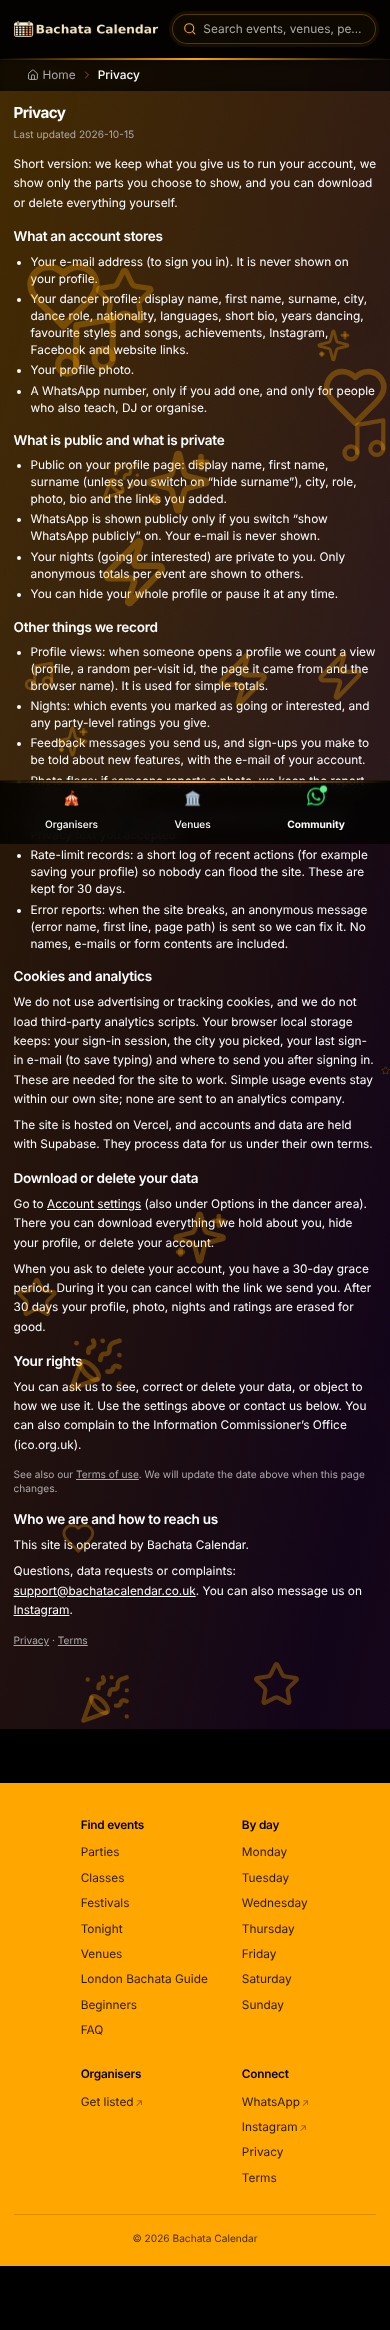
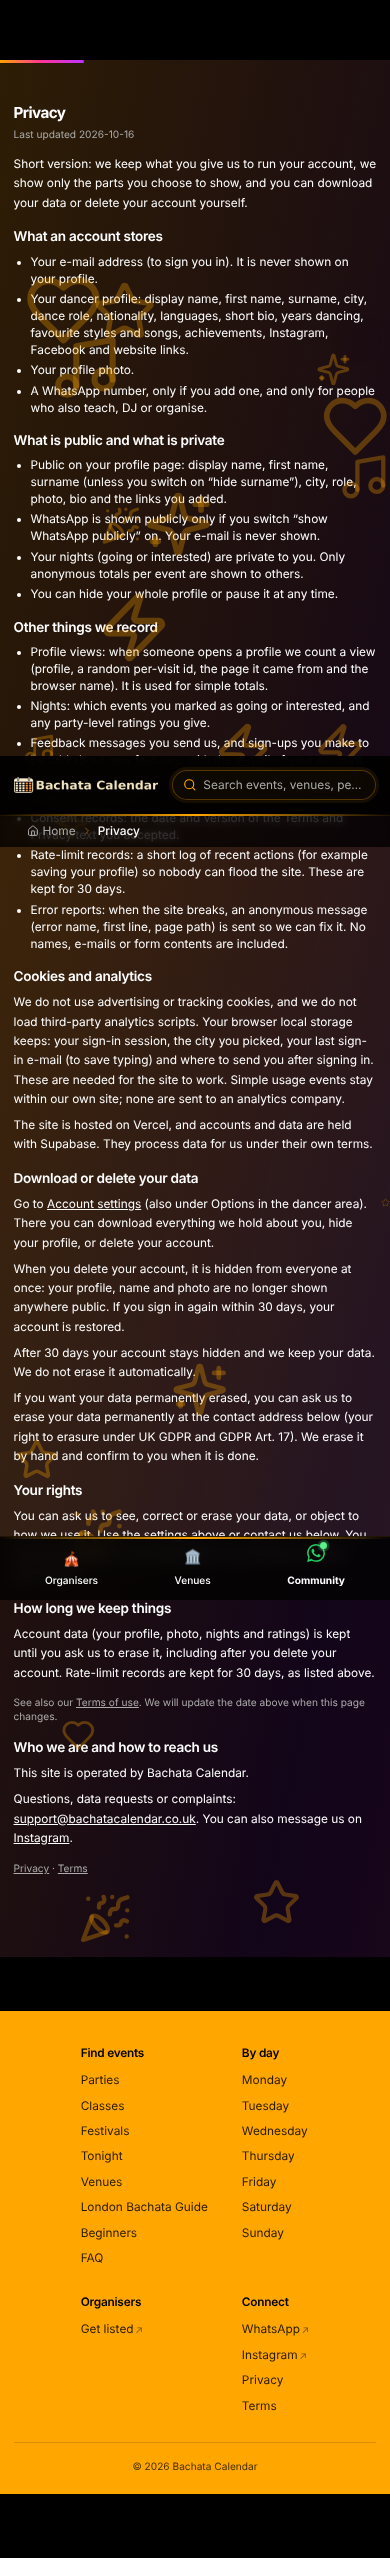
fix(site): /privacy and /terms deletion wording matches owner decision (hidden, 30-day restore, erase on request) [worker-done dt_fc738c34eb48]
Claude-Session: https://claude.ai/code/session_01MZ6coQThpe3bCxzAcJhY7g

diff --git a/src/pages/Privacy.tsx b/src/pages/Privacy.tsx
@@ -14,7 +14,7 @@ const Privacy = () => {
     <LegalShell routeId="privacy" title="Privacy" updated={PRIVACY_VERSION}>
       <p>
         Short version: we keep what you give us to run your account, we show only the parts you choose to show, and you
-        can download or delete everything yourself.
+        can download your data or delete your account yourself.
       </p>
 
       <Section title="What an account stores">
@@ -84,15 +84,29 @@ const Privacy = () => {
           dancer area). There you can download everything we hold about you, hide your profile, or delete your account.
         </p>
         <p>
-          When you ask to delete your account, you have a 30-day grace period. During it you can cancel with the link we
-          send you. After 30 days your profile, photo, nights and ratings are erased for good.
+          When you delete your account, it is hidden from everyone at once: your profile, name and photo are no longer
+          shown anywhere public. If you sign in again within 30 days, your account is restored.
+        </p>
+        <p>
+          After 30 days your account stays hidden and we keep your data. We do not erase it automatically.
+        </p>
+        <p>
+          If you want your data permanently erased, you can ask us to erase your data permanently at the contact address
+          below (your right to erasure under UK GDPR and GDPR Art. 17). We erase it by hand and confirm to you when it is done.
         </p>
       </Section>
 
       <Section title="Your rights">
         <p>
-          You can ask us to see, correct or delete your data, or object to how we use it. Use the settings above or contact us below. You can
+          You can ask us to see, correct or erase your data, or object to how we use it. Use the settings above or contact us below. You can
           also complain to the Information Commissioner&rsquo;s Office (ico.org.uk).
+        </p>
+      </Section>
+
+      <Section title="How long we keep things">
+        <p>
+          Account data (your profile, photo, nights and ratings) is kept until you ask us to erase it, including after
+          you delete your account. Rate-limit records are kept for 30 days, as listed above.
         </p>
       </Section>
 

diff --git a/src/pages/__tests__/LegalPages.test.tsx b/src/pages/__tests__/LegalPages.test.tsx
@@ -64,4 +64,22 @@ describe('legal pages', () => {
     const mail = container.querySelector('a[href="mailto:support@bachatacalendar.co.uk"]');
     expect(mail).toBeTruthy();
   });
+  it('Privacy states the owner deletion decision: hidden at once, 30 days to restore, kept, erasure on request', () => {
+    const { container } = wrap(<Privacy />);
+    const text = (container.textContent ?? '').replace(/\s+/g, ' ');
+    expect(text).toContain('30 days');
+    expect(text).toContain('hidden from everyone at once');
+    expect(text).toContain('Art. 17');
+    expect(text).toContain('ask us to erase your data permanently at the contact address below');
+    expect(text).not.toMatch(/(delet|eras)\w*[^.]{0,40}immediately/i);
+    expect(text).not.toMatch(/immediately[^.]{0,40}(delet|eras)/i);
+    expect(text).not.toMatch(/erased for good/i);
+    expect(text).not.toMatch(/grace period/i);
+  });
+  it('Terms does not promise erasure on delete', () => {
+    const { container } = wrap(<Terms />);
+    const text = (container.textContent ?? '').replace(/\s+/g, ' ');
+    expect(text).toContain('30 days');
+    expect(text).not.toMatch(/immediately/i);
+  });
 });

diff --git a/src/pages/Terms.tsx b/src/pages/Terms.tsx
@@ -45,7 +45,8 @@ const Terms = () => {
       <Section title="Removing content and accounts">
         <p>
           We can remove content, hide a profile or close an account that breaks these rules. You can delete your own
-          account any time in Account settings.
+          account any time in Account settings. It is hidden at once, and signing in again within 30 days restores it.
+          To have your data permanently erased, ask us; see the Privacy page.
         </p>
       </Section>
 

diff --git a/src/lib/legalVersions.ts b/src/lib/legalVersions.ts
@@ -1,4 +1,4 @@
 // One place for the legal-text versions. Same format accept_terms_v1 accepts
 // (^[0-9A-Za-z._-]{1,32}$). Bump the date when the matching page text changes.
-export const TERMS_VERSION = '2026-10-15';
-export const PRIVACY_VERSION = '2026-10-15';
+export const TERMS_VERSION = '2026-10-16';
+export const PRIVACY_VERSION = '2026-10-16';

diff --git a/docs/review-packs/site-legal-pages/PR-BODY.md b/docs/review-packs/site-legal-pages/PR-BODY.md
@@ -3,24 +3,26 @@ feat(site): /privacy and /terms pages, footer links, version constants
 ## Summary
 - Adds `/privacy` and `/terms` pages (shared `LegalShell`), footer links to both, and version constants for the legal text.
 - Owner values filled in: operated by Bachata Calendar, no postal address, contact by `mailto:support@bachatacalendar.co.uk`, Instagram as an optional second channel.
-- Legal wording is final and unchanged by this finishing pass. This pass merged `origin/main` (which carries the dancer-area isolation scope fix) and added this PR body.
-- Open for the owner: text ahead of the product, and immediate-erase vs 30-day grace (see `docs/handover/site-legal-pages.md`).
+- Deletion wording now matches the owner decision of 2026-10-15: deleting an account hides it from everyone at once; signing in within 30 days restores it; after 30 days it stays hidden and the data is kept; permanent erasure is by request (UK GDPR / GDPR Art. 17) at the contact address, done by hand with confirmation. No "erased for good" or fixed erase period remains. `PRIVACY_VERSION` and `TERMS_VERSION` bumped to 2026-10-16.
+- Open for the owner: text ahead of the product (see `docs/handover/site-legal-pages.md`).
 
 ## Per-job table (run locally; GitHub billing annotations are not code failures)
 | Job / step | Command | Exit | Result |
 |---|---|---|---|
 | dancer-area-isolation self-test | `node scripts/check-dancer-area-isolation.mjs --self-test` | 0 | 60 cases behave |
-| dancer-area-isolation | `npm run check:dancer-area-isolation` | 0 | OK (was 11 violations on db7b3288; cleared by merging main) |
-| Legal tests | `npx vitest run src/pages/__tests__/LegalPages.test.tsx` | 0 | 8/8 |
-| Typecheck | `npm run typecheck` | - | 96 errors, under the 106 baseline in `scripts/pre-ship.mjs` |
+| dancer-area-isolation | `npm run check:dancer-area-isolation` | 0 | prints COULD NOT MEASURE (protected entries not on origin/main in this sandbox); not a pass |
+| Legal tests | `npx vitest run src/pages/__tests__/LegalPages.test.tsx` (also TZ Europe/London, America/Los_Angeles, Pacific/Auckland) | 0 | 10/10 each; the 2 new tests were red on the old text |
+| Typecheck | `npx tsc --noEmit` | 0 | 0 errors |
+| ESLint (touched) | `npx eslint` on the 4 touched src files | 0 | clean |
 | Unit (all) | `npm run test:unit` | 1 | 8071 pass, 15 fail in 4 files, none touch this change: `eventViewCompat.contract`, `occurrenceProgram.contract`, `publicEventPageLineup.contract` (live-DB) and `integrityCouldNotRun` (sandbox) |
 | Production build | `npm run build` | 0 | built |
 | PR-body checks | `check-pr-phone-qa.mjs`, `check-pr-real-data-verified.mjs` on this file | 0 | pass |
 
-Not run: the timezone matrix legs, `integrity` job (`check:images`), full `npm run lint` chain, `pre-ship`.
+Not re-run this pass: full `npm run test:unit` (last full run: 15 failures in 4 files unrelated to this change, see HANDOVER).
+Not run: `integrity` job (`check:images`), full `npm run lint` chain, `pre-ship`.
 
 ## Phone QA
-- Sizes checked: 390x844 (production build, full-page shots of both pages in `docs/review-packs/site-legal-pages/`)
+- Sizes checked: 390x844 (production build; `privacy-deletion-390x844.png` shows the changed section, plus full-page shots in `docs/review-packs/site-legal-pages/`)
 - Walked: `/terms` and `/privacy` served from the production build: HTTP 200, no placeholder text, one mailto link, scrollWidth 390 (no horizontal scroll); footer links to both pages.
 - Not verified: a real phone, 360x640, the Vercel preview, and the phone suite (phone-qa.yml) on this push.
 

diff --git a/docs/review-packs/site-legal-pages/HANDOVER.md b/docs/review-packs/site-legal-pages/HANDOVER.md
@@ -24,3 +24,20 @@ On head f3ec01f the new tests failed 3/8: `expected 'Privacy...' not to contain 
 ## Verified / Not verified
 Verified: placeholders gone, name and mailto render on both pages in a production build; tests; tsc; build; 390x844 shots.
 Not verified: GitHub Actions on this push, full `npm run lint` chain and `pre-ship`, the 4 failing unit files against clean main, a real phone, the legal wording, the Vercel preview. Earlier flagged items (text ahead of the product, immediate-erase vs 30-day grace) are still open for the owner.
+
+## Pass 2: deletion wording (brief pr762-privacy-deletion, owner decision 2026-10-15)
+- `/privacy` "Download or delete your data": hidden from everyone at once; sign in within 30 days restores; after 30 days stays hidden, data kept, not erased automatically; permanent erasure on request (UK GDPR / GDPR Art. 17) at the contact address, done by hand with confirmation. New "How long we keep things" section. "Your rights" now says erase. Removed "30-day grace period", "cancel with the link we send you", "erased for good".
+- `/terms` "Removing content and accounts": same facts in two sentences, points to Privacy.
+- `src/lib/legalVersions.ts`: both versions bumped to `2026-10-16`.
+- Tests: two new cases in `LegalPages.test.tsx`. Red on the unfixed text: Privacy `expected '...' to contain 'hidden from everyone at once'`; Terms `expected '...' to contain '30 days'` (2 failed, 8 passed). After: 10/10, also in 3 timezones.
+- Shot: `privacy-deletion-390x844.png` (changed section); `privacy-390x844.png` refreshed (full page, production build, scrollWidth 390).
+
+| Step | Command | Exit |
+|---|---|---|
+| Legal tests | `npx vitest run src/pages/__tests__/LegalPages.test.tsx` (default TZ, Europe/London, America/Los_Angeles, Pacific/Auckland) | 0 x4 |
+| Types | `npx tsc --noEmit` | 0 (0 errors) |
+| ESLint touched | `npx eslint` Privacy, Terms, test, legalVersions | 0 |
+| Build | `npm run build` | 0 |
+| Isolation | `npm run check:dancer-area-isolation` | 0, but output "COULD NOT MEASURE" (sandbox lacks the protected files on origin/main) |
+
+Not verified: GitHub Actions, full unit run, `integrity`/`check:images`, full lint chain, `pre-ship`, phone-qa suite, a real phone, whether the product actually restores on sign-in within 30 days (copy states the owner decision; the backend is not checked here), legal sign-off. PR-body checks: `check-pr-phone-qa.mjs` and `check-pr-real-data-verified.mjs` both exit 0 on PR-BODY.md.
